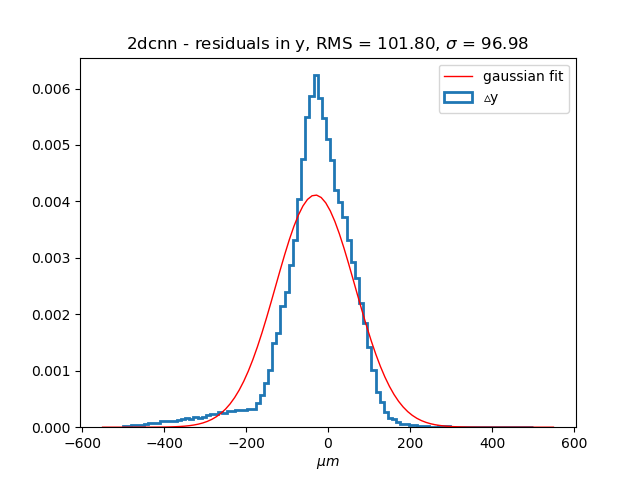
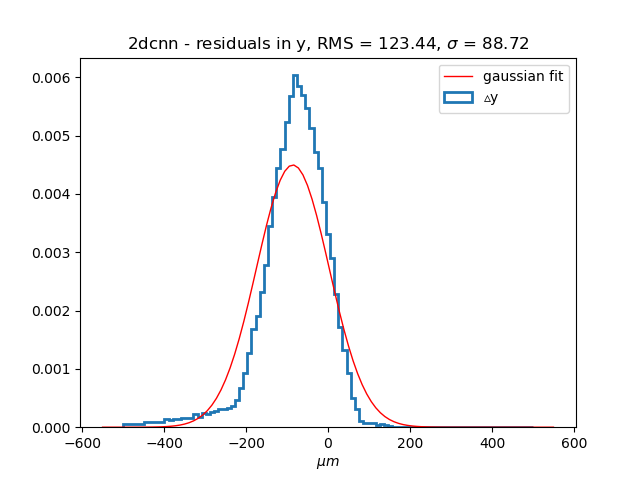
centering?

diff --git a/plugins/Infer2DCNN.cpp b/plugins/Infer2DCNN.cpp
@@ -467,9 +467,9 @@ int clustersize_x = 0, clustersize_y = 0;
 				}
 				//printf("clustersize_x = %i, clustersize_y = %i\n",clustersize_x,clustersize_y);
 
-				if(clustersize_x%2==0) mid_x = int(clustersize_x/2)-1;
+				if(clustersize_x%2==0) mid_x = int(clustersize_x/2);
 				else mid_x = int(clustersize_x/2)-0.5;
-				if(clustersize_y%2==0) mid_y = int(clustersize_y/2)-1;
+				if(clustersize_y%2==0) mid_y = int(clustersize_y/2);
 				else mid_y = int(clustersize_y/2)-0.5;
 				int offset_x = 6 - mid_x;
 				int offset_y = 10 - mid_y;
@@ -517,11 +517,11 @@ int clustersize_x = 0, clustersize_y = 0;
 				for (int i = 0; i < TXSIZE; i++) {
 					//cluster_.tensor<float,4>()(0, i,j, 0) = 0;
 					for (int j = 0; j < TYSIZE; j++){
-						cluster_.tensor<float,4>()(0, i, j, 0) = clusbuf[i][j]/100;
-				//		printf("%i ",int(clusbuf[i][j]));
+						cluster_.tensor<float,4>()(0, i, j, 0) = clusbuf[i][j]/10;
+						//printf("%i ",int(clusbuf[i][j]));
 
 					}
-				//	printf("\n");
+					//printf("\n");
 				}
 
 				// TODO: CENTER THE CLUSTER
